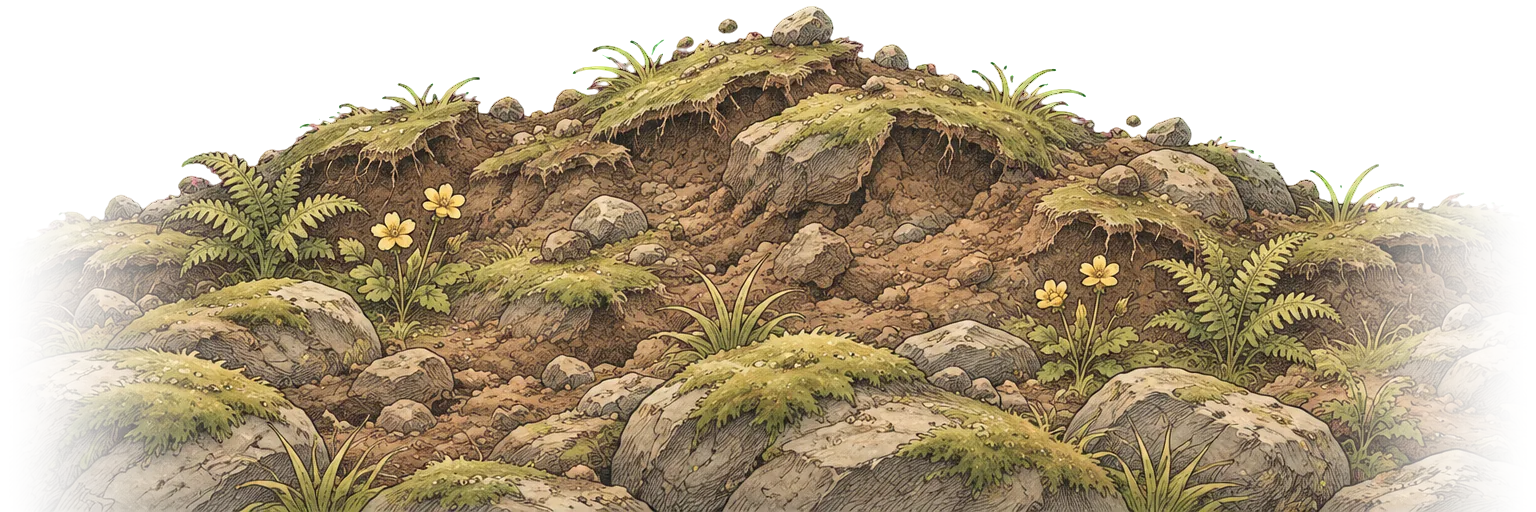
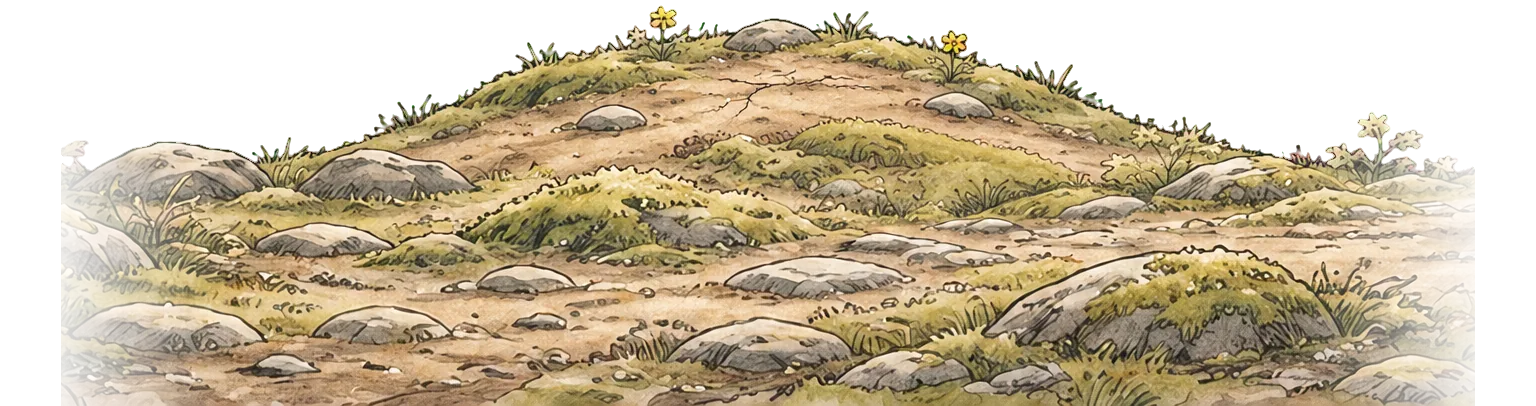
Web: landing has one Open Quest button; phone stands in a slight rise of the art's own ground
Drops the QR card and the separate desktop link (and the qrcode dependency).
The dirt mound is replaced by the picture's foreground redrawn with a low rise,
sized and placed to line up with the background.

Claude-Session: https://claude.ai/code/session_016uYC2pkL61xT1ZFeoxGR3t

diff --git a/apps/web/src/components/desktop-gate.tsx b/apps/web/src/components/desktop-gate.tsx
@@ -1,10 +1,7 @@
 'use client'
 
-import { useEffect, useState } from 'react'
-import QRCode from 'qrcode'
 import { DESKTOP_KEY } from '@/lib/desktop'
 import { ArrowRight, Check, ChevronLeft, Compass, Inbox, Play, Plus, Search, UserRound } from 'lucide-react'
-
 
 function setDesktopApp(on: boolean) {
   if (on) document.documentElement.dataset.desktop = 'app'
@@ -18,26 +15,11 @@ function setDesktopApp(on: boolean) {
 }
 
 /**
- * What a computer (mouse + hover) sees instead of the app: the pitch, a code to open
- * it on a phone, and a way into the app in a phone-width column. CSS decides which
- * of the two is visible, so there is no flash on load; this only fills in the QR code.
+ * What a computer (mouse + hover) sees before the app: the pitch and one way in. The
+ * app then runs in a phone-width column. CSS decides which of the two is visible, so
+ * there is no flash on load.
  */
 export function DesktopGate() {
-  const [qr, setQr] = useState<string | null>(null)
-  const [url, setUrl] = useState('')
-
-  useEffect(() => {
-    if (!window.matchMedia('(hover: hover) and (pointer: fine)').matches) return
-    const here = window.location.href
-    setUrl(window.location.host + (window.location.pathname === '/' ? '' : window.location.pathname))
-    QRCode.toString(here, {
-      type: 'svg',
-      margin: 0,
-      errorCorrectionLevel: 'M',
-      color: { dark: '#26261F', light: '#00000000' },
-    }).then(setQr)
-  }, [])
-
   return (
     <>
       <div className="desktop-gate landing">
@@ -57,33 +39,13 @@ export function DesktopGate() {
             Post a challenge with a reward locked up. Whoever films it and gets approved is paid.
           </p>
 
-          <div className="mt-7 flex items-center gap-4 rounded-[20px] bg-paper-raised p-3 pr-7 text-left shadow-[0_1px_0_rgba(38,38,31,0.06),0_12px_32px_-12px_rgba(38,38,31,0.35)]">
-            <div className="h-[88px] w-[88px] shrink-0 rounded-[12px] bg-paper p-2">
-              {qr ? (
-                <div
-                  role="img"
-                  aria-label={`QR code for ${url}`}
-                  className="h-full w-full [&>svg]:h-full [&>svg]:w-full"
-                  dangerouslySetInnerHTML={{ __html: qr }}
-                />
-              ) : (
-                <div className="h-full w-full rounded-md bg-paper-sunk" />
-              )}
-            </div>
-            <div className="min-w-0">
-              <p className="text-[17px] font-semibold leading-snug">Open Quest on your phone</p>
-              <p className="mt-0.5 text-[14px] leading-snug text-ink-soft">Point your camera at the code.</p>
-              {url && <p className="mt-1.5 truncate font-mono text-[12px] text-ink-soft">{url}</p>}
-            </div>
-          </div>
-
           <button
             type="button"
             onClick={() => setDesktopApp(true)}
-            className="group mt-3 inline-flex h-10 items-center gap-1.5 rounded-full px-4 text-[15px] font-semibold text-moss-deep transition-colors hover:bg-paper-raised/80"
+            className="group mt-7 inline-flex h-[54px] items-center gap-2 rounded-full bg-moss px-8 text-[17px] font-semibold text-paper-raised shadow-[0_14px_30px_-12px_rgba(58,80,31,0.7)] transition-colors hover:bg-moss-deep"
           >
-            Use it on desktop
-            <ArrowRight className="h-4 w-4 transition-transform group-hover:translate-x-0.5" strokeWidth={2.5} aria-hidden />
+            Open Quest
+            <ArrowRight className="h-[18px] w-[18px] transition-transform group-hover:translate-x-0.5" strokeWidth={2.5} aria-hidden />
           </button>
         </main>
 

diff --git a/apps/web/src/app/globals.css b/apps/web/src/app/globals.css
@@ -38,8 +38,8 @@
   }
 }
 
-/* A computer (mouse + hover) gets the landing page; "Use it on desktop" swaps it for
-   the app in a phone-width column. Phones never see any of this. */
+/* A computer (mouse + hover) gets the landing page; "Open Quest" swaps it for the app
+   in a phone-width column. Phones never see any of this. */
 .desktop-gate,
 .desktop-back {
   display: none;
@@ -115,7 +115,7 @@
     background-position: center bottom;
   }
 
-  /* Everything below the hero: the phone standing upright, pushed up out of the ground. */
+  /* Everything below the hero: the phone standing upright in the ground. */
   .landing-stage {
     position: relative;
     flex: 1;
@@ -123,7 +123,8 @@
   }
   .landing-phone {
     position: absolute;
-    top: 20px;
+    /* On a tall window it drops with the ground, so its foot stays buried. */
+    top: max(20px, calc(100% - 976px));
     left: 50%;
     /* The frame image at the scale that makes its screen 390px wide. */
     width: 433.4px;
@@ -152,7 +153,7 @@
     background: rgba(30, 34, 22, 0.5);
     filter: blur(24px);
   }
-  /* Light bursting out of the broken ground behind the phone, like the chest's. */
+  /* Light bursting up from the ground behind the phone, like the chest's. */
   .landing-glow {
     position: absolute;
     bottom: -150px;
@@ -177,14 +178,15 @@
     -webkit-mask-image: radial-gradient(circle closest-side, transparent 28%, #000 44%, transparent 96%);
     mask-image: radial-gradient(circle closest-side, transparent 28%, #000 44%, transparent 96%);
   }
-  /* The heap of earth the phone has come up through; it hides the phone's lower half. */
+  /* The art's own foreground, redrawn with a slight rise where the phone comes up. It is
+     cut from the same picture, so it is sized and placed exactly like the background. */
   .landing-ground {
     position: absolute;
-    bottom: -127px;
+    bottom: 0;
     left: 50%;
-    width: 1040px;
-    aspect-ratio: 3 / 1;
-    margin-left: -520px;
+    width: calc(max(100vw, 177.68vh, 1599px) * 0.4199);
+    aspect-ratio: 1536 / 406;
+    translate: -50% 0;
     background: url('/art/landing-ground.webp') center / 100% 100% no-repeat;
     pointer-events: none;
   }

diff --git a/apps/web/src/app/layout.tsx b/apps/web/src/app/layout.tsx
@@ -53,7 +53,7 @@ export default function RootLayout({ children }: { children: React.ReactNode }) 
     // The script below sets data-desktop before React hydrates.
     <html lang="en" className={display.variable} suppressHydrationWarning>
       <body className="min-h-[100dvh] bg-paper text-ink antialiased">
-        {/* A computer that chose "Use it on desktop" goes straight to the app, with no flash of the landing page. */}
+        {/* A computer that has opened the app before goes straight to the app, with no flash of the landing page. */}
         <script dangerouslySetInnerHTML={{ __html: DESKTOP_MODE }} />
         <DesktopGate />
         {/* On a computer this is the phone-width column the app lives in; on a phone it does nothing. */}
